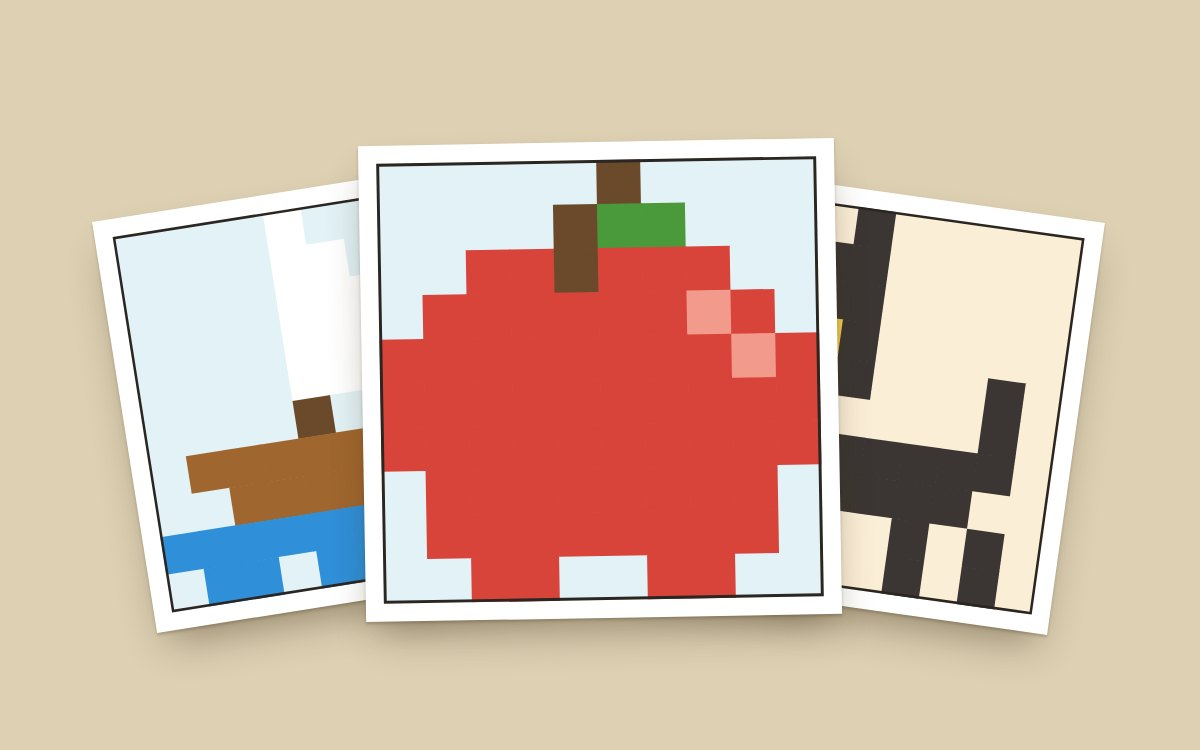
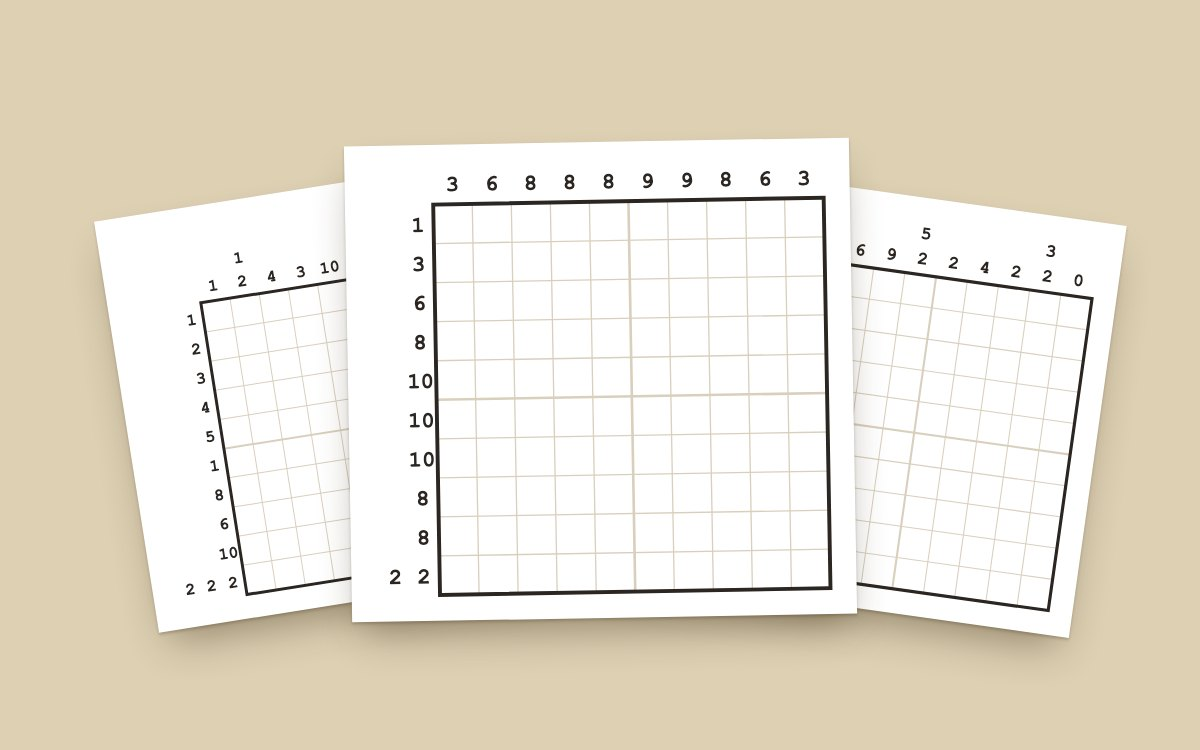
Home-page covers show puzzles unsolved

diff --git a/puzzles/covers.py b/puzzles/covers.py
@@ -2,8 +2,9 @@
 
     npm run build && python3 puzzles/covers.py
 
-Number Line Maze: the Warm-up as a fresh puzzle and the Big Maze solved, with its route.
-RYB: levels painted in their solution colors (read from the built pages), one unpainted.
+Every cover shows puzzles as a player first sees them, never a solution.
+Number Line Maze: two mazes' number grids. Three Coats: three levels, unpainted.
+Round the Bend: two empty grids. Picture Squares: three blank grids with their clues.
 Escape Room: three of its printed sheets (the preview images in public/).
 Each board is drawn on a sheet of paper and fanned out on manila, then screenshotted
 with headless Chrome.
@@ -187,12 +188,12 @@ def main():
     warm = json.loads((games / "number-line-maze" / "1.json").read_text())["maze"]
     big = json.loads((games / "number-line-maze" / "2.json").read_text())["maze"]
     w_svg, w_ar = maze_svg(warm, solved=False)
-    b_svg, b_ar = maze_svg(big, solved=True)
+    b_svg, b_ar = maze_svg(big, solved=False)
     cover([(w_svg, w_ar, 360, 390, 470, -8), (b_svg, b_ar, 740, 380, 640, 5)],
           ROOT / "public" / "number-line-maze" / "cover.jpg")
 
     t, hx, sq = ryb_config(1), ryb_config(2), ryb_config(3)
-    sheets = [ryb_svg(sq, painted=False), ryb_svg(t, painted=True), ryb_svg(hx, painted=True)]
+    sheets = [ryb_svg(sq, painted=False), ryb_svg(t, painted=False), ryb_svg(hx, painted=False)]
     cover([(sheets[0][0], sheets[0][1], 300, 400, 380, -9),
            (sheets[2][0], sheets[2][1], 880, 395, 400, 8),
            (sheets[1][0], sheets[1][1], 590, 380, 430, -1)],
@@ -200,12 +201,26 @@ def main():
 
 
 def mosaic_svg(level: dict):
-    pic, pal = level["picture"], level["palette"]
+    """A blank grid with its row and column clues, as the puzzle starts."""
+    pic = level["picture"]
     H, W, S = len(pic), len(pic[0]), 30
-    cells = "".join(f'<rect x="{c * S}" y="{r * S}" width="{S + .5}" height="{S + .5}" fill="{pal[ch]}"/>'
-                    for r, row in enumerate(pic) for c, ch in enumerate(row))
-    frame = f'<rect x="0" y="0" width="{W * S}" height="{H * S}" fill="none" stroke="{INK}" stroke-width="4"/>'
-    return f'<svg viewBox="0 0 {W * S} {H * S}" xmlns="http://www.w3.org/2000/svg">{cells}{frame}</svg>', W / H
+    runs = lambda line: [len(r) for r in "".join("#" if ch != "." else "." for ch in line).split(".") if r] or [0]
+    rows, cols = [runs(row) for row in pic], [runs([row[c] for row in pic]) for c in range(W)]
+    L, T, F = max(map(len, rows)) * 22 + 10, max(map(len, cols)) * 24 + 8, 'font-family="Courier Prime, Courier New, monospace" font-size="17" font-weight="700"'
+    out = []
+    for r in range(H + 1):
+        out.append(f'<line x1="{L}" y1="{T + r * S}" x2="{L + W * S}" y2="{T + r * S}" stroke="#d9cfbd" stroke-width="{2 if r % 5 == 0 else 1}"/>')
+    for c in range(W + 1):
+        out.append(f'<line x1="{L + c * S}" y1="{T}" x2="{L + c * S}" y2="{T + H * S}" stroke="#d9cfbd" stroke-width="{2 if c % 5 == 0 else 1}"/>')
+    for r, clue in enumerate(rows):
+        for k, n in enumerate(reversed(clue)):
+            out.append(f'<text x="{L - 12 - k * 22}" y="{T + r * S + S / 2 + 6}" text-anchor="middle" {F} fill="{INK}">{n}</text>')
+    for c, clue in enumerate(cols):
+        for k, n in enumerate(reversed(clue)):
+            out.append(f'<text x="{L + c * S + S / 2}" y="{T - 10 - k * 24}" text-anchor="middle" {F} fill="{INK}">{n}</text>')
+    out.append(f'<rect x="{L}" y="{T}" width="{W * S}" height="{H * S}" fill="none" stroke="{INK}" stroke-width="3"/>')
+    vw, vh = L + W * S + 6, T + H * S + 6
+    return f'<svg viewBox="0 0 {vw} {vh}" xmlns="http://www.w3.org/2000/svg">{"".join(out)}</svg>', vw / vh
 
 
 def mosaic_cover():
@@ -216,7 +231,7 @@ def mosaic_cover():
 
 
 def lazy_river_cover():
-    a, b = river_svg(river_config(3), solved=False), river_svg(river_config(4), solved=True)
+    a, b = river_svg(river_config(3), solved=False), river_svg(river_config(4), solved=False)
     cover([(a[0], a[1], 380, 390, 470, -8), (b[0], b[1], 780, 380, 520, 6)],
           ROOT / "public" / "round-the-bend" / "cover.jpg")
 
